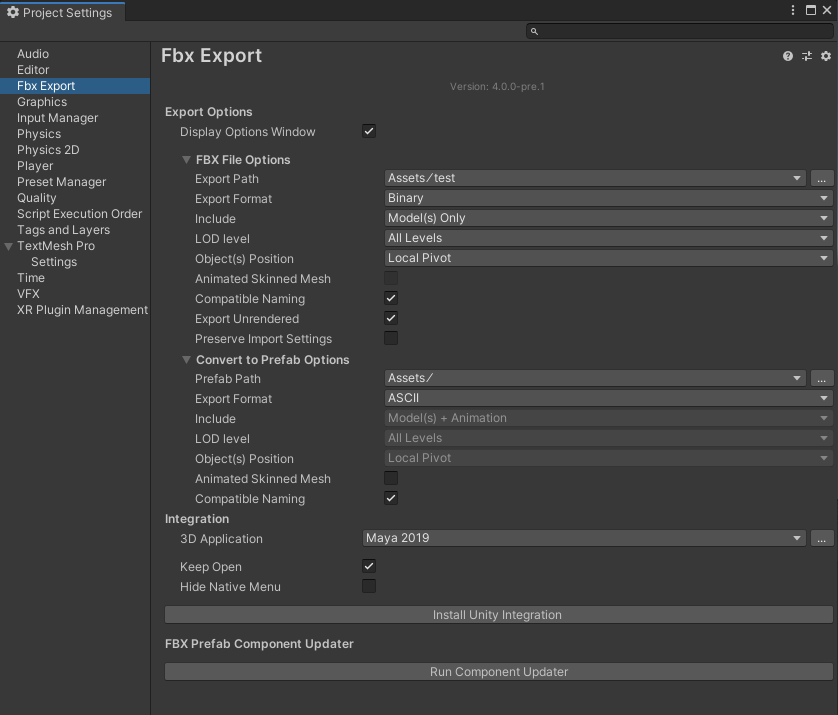
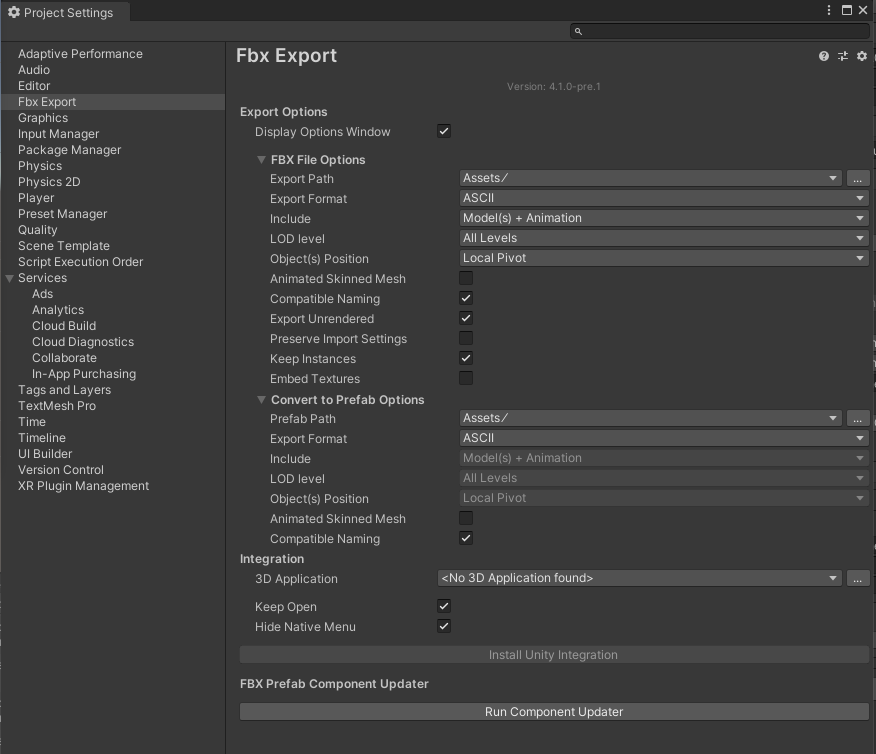
update changelog and docs for new export options

diff --git a/com.unity.formats.fbx/Editor/ExportModelSettings.cs b/com.unity.formats.fbx/Editor/ExportModelSettings.cs
@@ -114,9 +114,18 @@ namespace UnityEditor.Formats.Fbx.Exporter
             EditorGUI.EndDisabledGroup();
             GUILayout.EndHorizontal();
 
-            exportSettings.SetKeepInstances(EditorGUILayout.Toggle(new GUIContent("Keep Instances", "If enabled, instances will be preserved as instances in the FBX file. This can cause issues with e.g. Blender if different instances have different materials assigned."), exportSettings.KeepInstances));
-            exportSettings.SetEmbedTextures(EditorGUILayout.Toggle(new GUIContent("Embed Textures", "If enabled, textures are embedded into the resulting FBX file instead of referenced."), exportSettings.EmbedTextures));
+            GUILayout.BeginHorizontal();
+            EditorGUILayout.LabelField(new GUIContent("Keep Instances",
+                "If enabled, instances will be preserved as instances in the FBX file. This can cause issues with e.g. Blender if different instances have different materials assigned."),
+                GUILayout.Width(LabelWidth - FieldOffset));
+            exportSettings.SetKeepInstances(EditorGUILayout.Toggle(exportSettings.KeepInstances));
+            GUILayout.EndHorizontal();
 
+            GUILayout.BeginHorizontal();
+            EditorGUILayout.LabelField(new GUIContent("Embed Textures",
+                "If enabled, textures are embedded into the resulting FBX file instead of referenced."), GUILayout.Width(LabelWidth - FieldOffset));
+            exportSettings.SetEmbedTextures(EditorGUILayout.Toggle(exportSettings.EmbedTextures));
+            GUILayout.EndHorizontal();
         }
     }
 

diff --git a/com.unity.formats.fbx/Documentation~/exporting.md b/com.unity.formats.fbx/Documentation~/exporting.md
@@ -23,7 +23,8 @@ The FBX Exporter exports the following objects:
 
 ## Mesh support
 
-The FBX Exporter exports multiple copies of the same Mesh as instances. The FBX Exporter also exports the following mesh attributes:
+The FBX Exporter exports multiple copies of the same Mesh as instances (to export all Meshes as unique, uncheck the *Keep Instances* option in the export settings).
+The FBX Exporter also exports the following mesh attributes:
 
 - Normals
 - Binormals
@@ -229,6 +230,8 @@ When exporting an FBX file, the following **Export Options** window opens, displ
 | __Compatible Naming__     | Enable this option to control renaming the GameObject and Materials during export. <br/><br/>The FBX Exporter ensures compatible naming with Autodesk® Maya® and Autodesk® Maya LT™ to avoid unexpected name changes between Unity and Autodesk® Maya® and Autodesk® Maya LT™. During export the FBX Exporter replaces characters in Unity names as follows:<br/> - Replaces invalid characters with underscores ("\_"). Invalid characters are all non-alphanumeric characters, except for the colon (":").<br/> - Adds an underscore ("\_") to names that begin with a number.<br/> - Replaces diacritics. For example, replaces "é" with “e”.<br/><br/>**NOTE:** If you have a Material with a space in its name, the space is replaced with an underscore ("_"). This results in a new Material being created when it is imported. For example, the Material named "Default Material" is exported as "Default_Material" and is created as a new Material when it is imported. If you want the exported Material to match an existing Material in the scene, you must manually rename the Material before exporting. |
 | __Export Unrendered__     | Enable this option to export meshes that either don't have a renderer component, or that have a disabled renderer component. For example, a simplified mesh used as a Mesh collider. |
 |__Preserve Import Settings__ | Enable this option to preserve all import settings applied to an existing FBX file that is overwritten during the export.<br/>If you export the GameObject as a new FBX file, the FBX Exporter does not carry over the import settings.|
+| __Keep Instances__        | Enable this option to export multiple copies of the same Mesh as instances.<br/>If unchecked, the FBX Exporter exports all Meshes as unique. |
+| __Embed Textures__        | Enable this option to embed textures in the exported FBX. |
 | __Don't ask me again__    | Enable this option to use the same **Export Options** properties and hide this window when you export FBX files in the future.<br/>If you need to reset this property: from the Unity Editor menu, select **Edit** > **Project Settings** > **Fbx Export** and enable **Display Options Window**. |
 
 > **Note:** For FBX Model filenames, the FBX Exporter ensures that names do not contain invalid characters for the file system. The set of invalid characters might differ between file systems.

diff --git a/com.unity.formats.fbx/Documentation~/options.md b/com.unity.formats.fbx/Documentation~/options.md
@@ -33,7 +33,8 @@ Use the Fbx Export Settings window to:
 | **Compatible Naming**  |  | Enable this option to make the FBX Exporter rename GameObjects and Materials on export, according to specific [character replacement rules](#compatible-naming-rules).<br /><br />This ensures a compatible naming with Autodesk® Maya® and Autodesk® Maya LT™ to avoid unexpected name changes between Unity and Autodesk® Maya® and Autodesk® Maya LT™. |
 | **Export Unrendered**  |  | Enable this option to export meshes that don't have a renderer component or that have a disabled renderer component.<br/><br/>For example, a simplified mesh used as a Mesh collider. |
 |**Preserve Import Settings**  |  | Enable this option to preserve all import settings applied to an existing FBX that is overwritten in the export. If the FBX Exporter exports the GameObject as a new FBX, the import settings are not carried over. |
-
+| **Keep Instances** | | Enable this option to export multiple copies of the same Mesh as instances.<br/>If unchecked, the FBX Exporter exports all Meshes as unique. |
+| **Embed Textures** | | Enable this option to embed textures in the exported FBX. |
 
 #### Convert to Prefab Options
 | Property | Function |

diff --git a/CHANGELOG.md b/CHANGELOG.md
@@ -2,6 +2,7 @@
 
 ## Unreleased
 - Added the ability to export meshes using more than 4 skin weights per vertex.
+- Added export options to Keep Instances and Embed Textures. Thank you to @hybridherbst for the additions.
 
 ## [4.1.1] - 2021-09-03
 ### Changed
